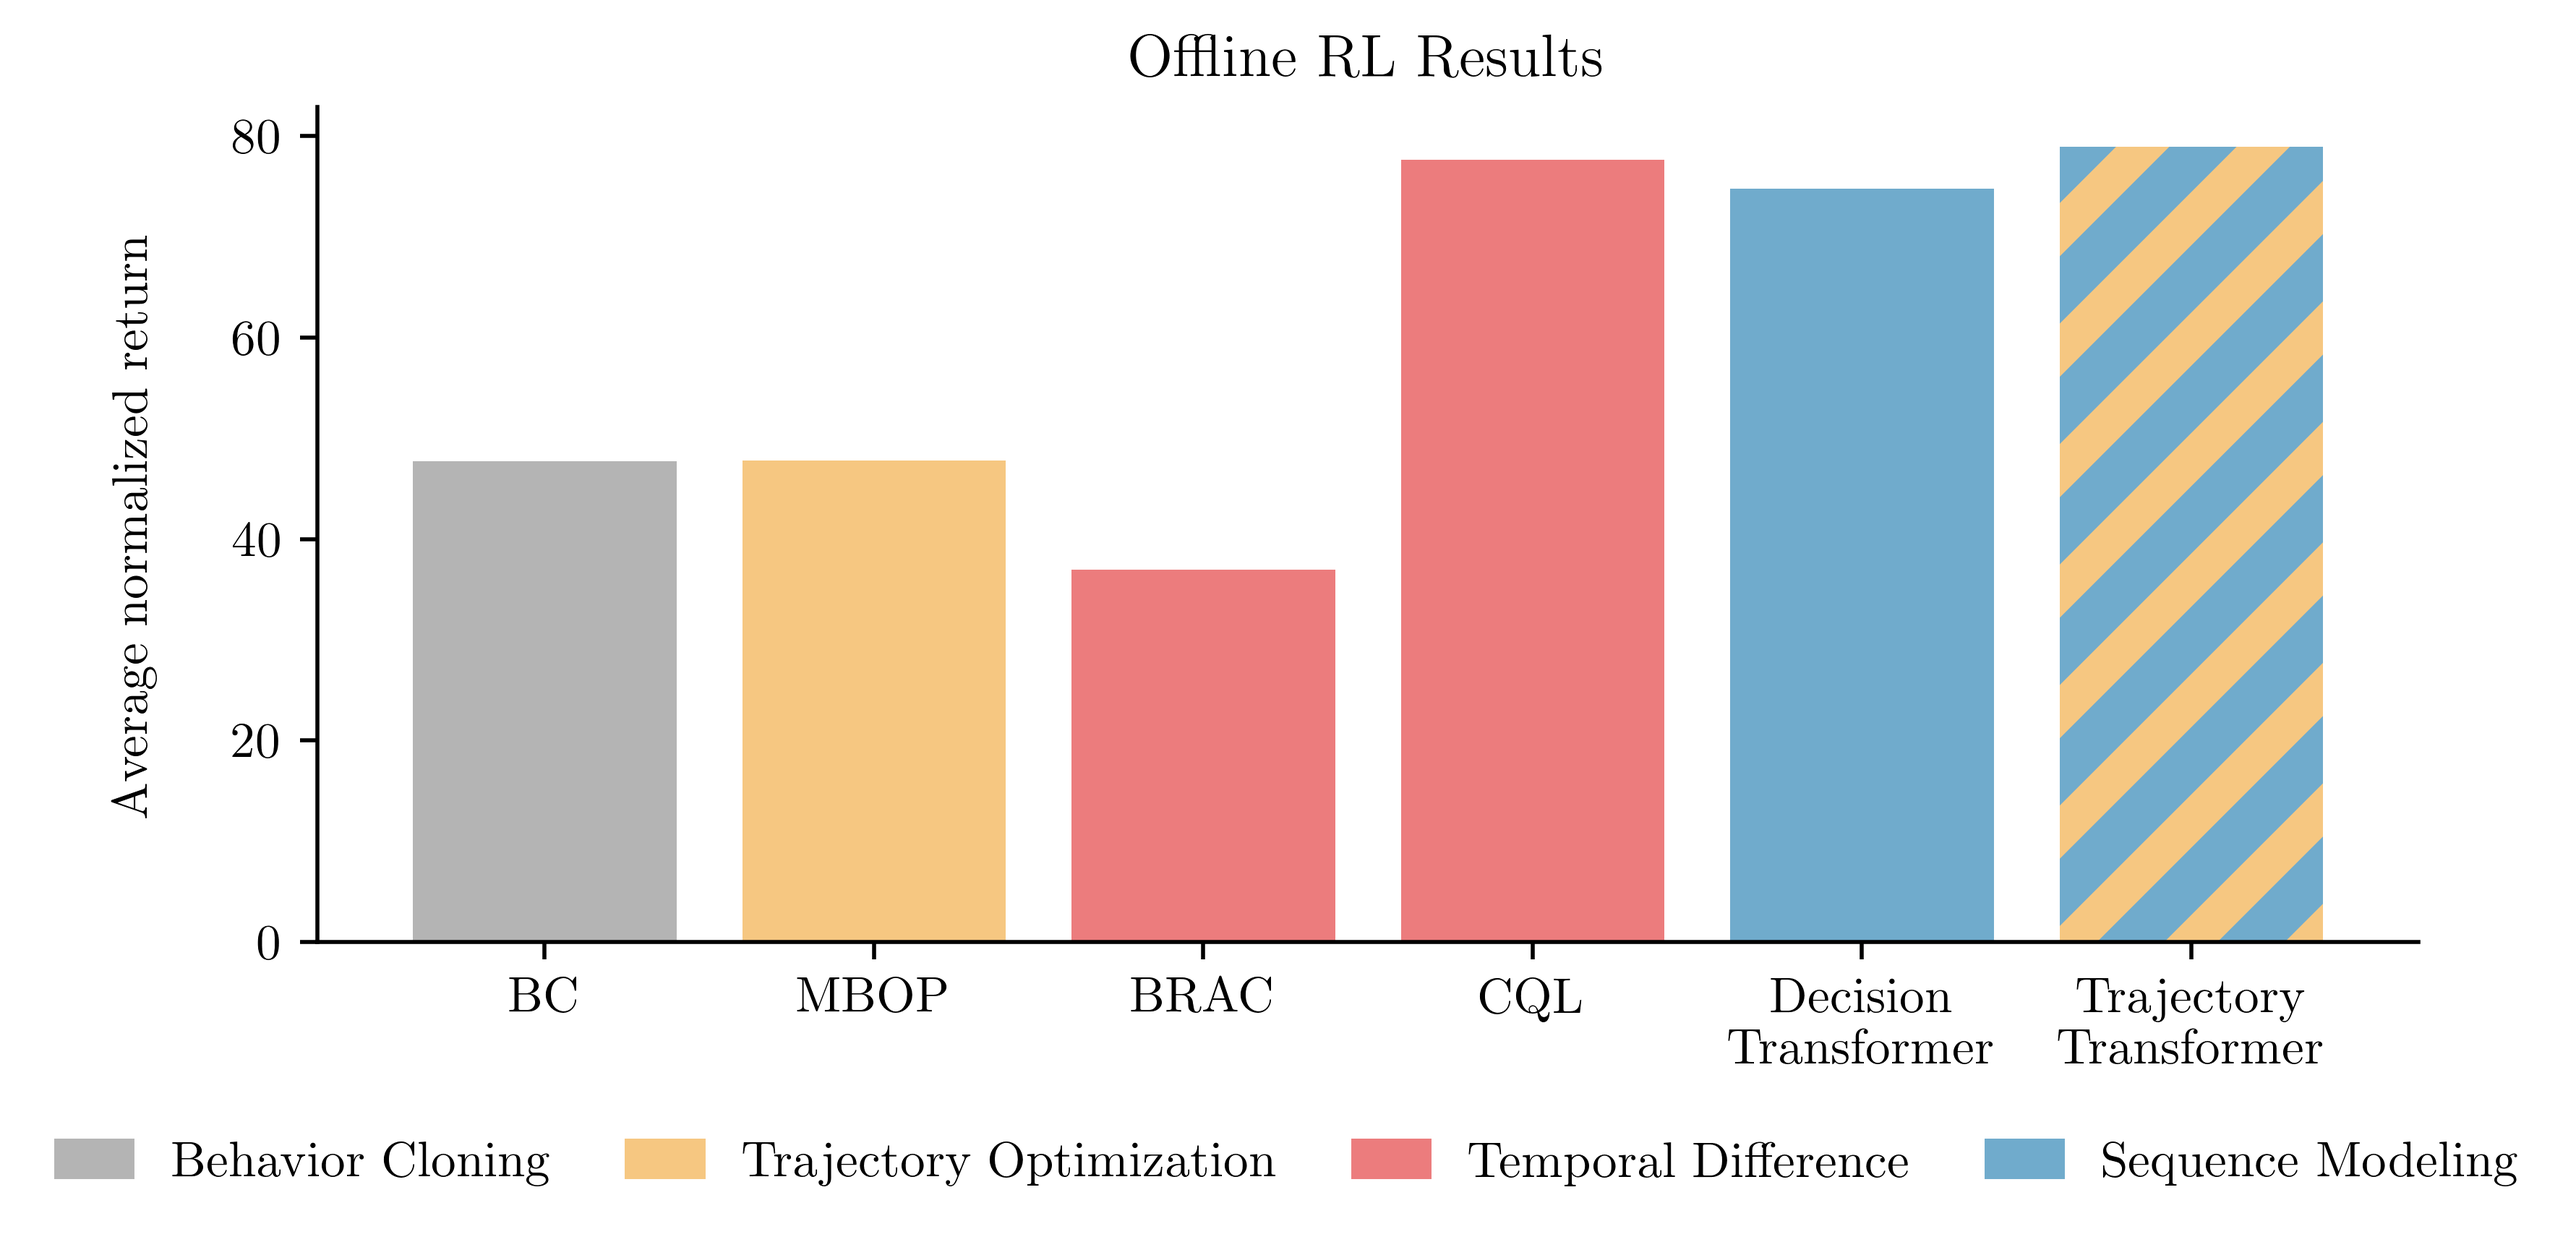
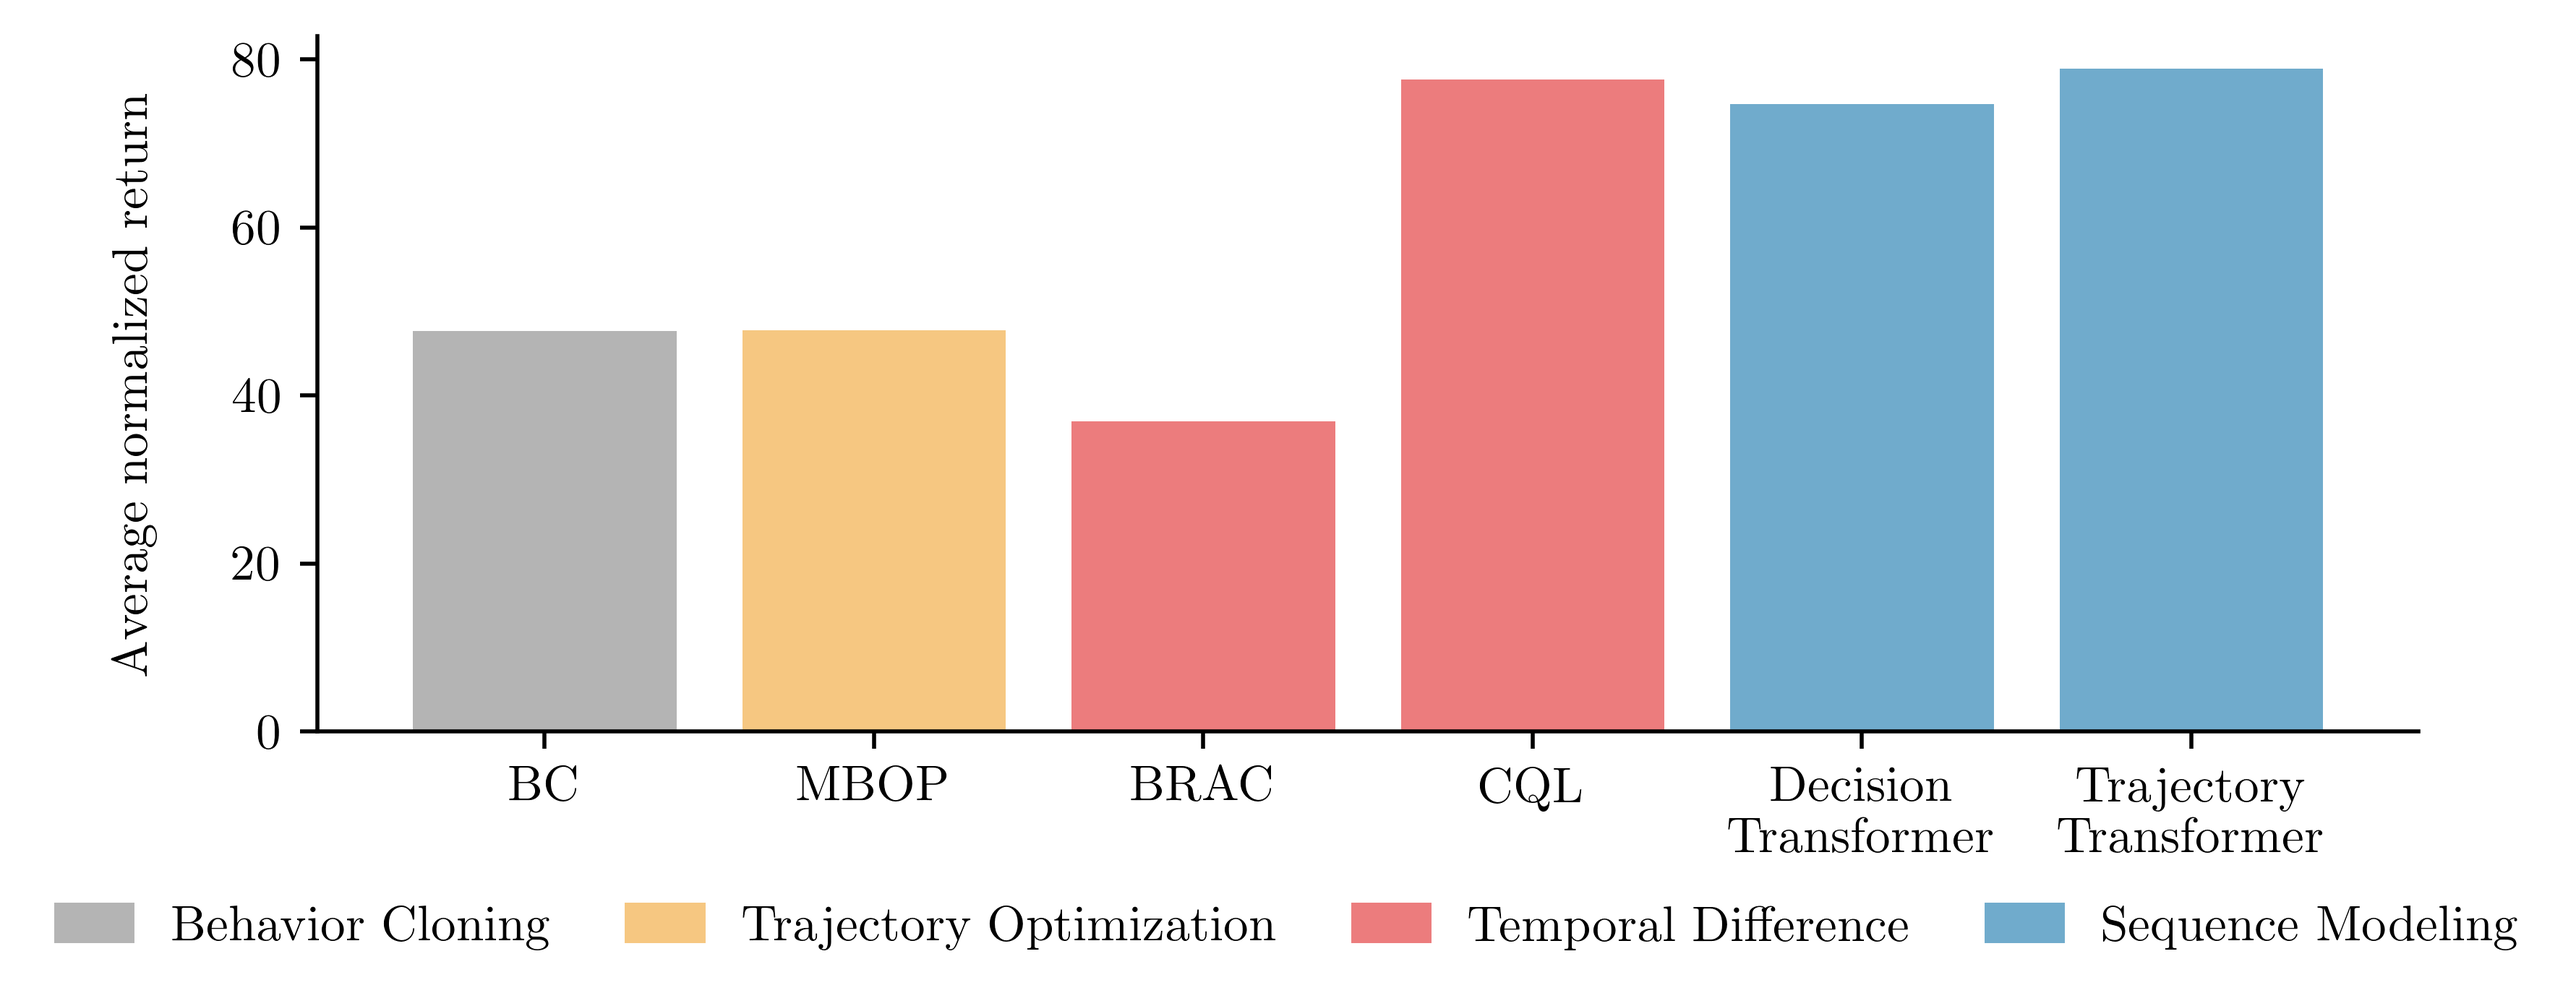
bar plot

diff --git a/plotting/plot.py b/plotting/plot.py
@@ -40,7 +40,7 @@ if __name__ == '__main__':
 
 	fig = plt.gcf()
 	ax = plt.gca()
-	fig.set_size_inches(7.5, 3)
+	fig.set_size_inches(7.5, 2.5)
 
 	means = {k: get_mean(v, exclude='ant') for k, v in means.items()}
 	print(means)
@@ -56,7 +56,7 @@ if __name__ == '__main__':
 	labels = [LABELS.get(alg, alg) for alg in algs]
 	plt.bar(labels, vals, color=colors, edgecolor=Colors.gold, lw=0)
 	plt.ylabel('Average normalized return', labelpad=15)
-	plt.title('Offline RL Results')
+	# plt.title('Offline RL Results')
 
 	legend_labels = ['Behavior Cloning', 'Trajectory Optimization', 'Temporal Difference', 'Sequence Modeling']
 	colors = [Colors.grey, Colors.gold, Colors.red, Colors.blue]
@@ -65,7 +65,7 @@ if __name__ == '__main__':
 		bbox_to_anchor=(1.07, -.18), fancybox=False, framealpha=0, shadow=False, columnspacing=1.5, handlelength=1.5)
 
 	matplotlib.rcParams['hatch.linewidth'] = 7.5
-	ax.patches[-1].set_hatch('/')
+	# ax.patches[-1].set_hatch('/')
 
 	ax.spines['right'].set_visible(False)
 	ax.spines['top'].set_visible(False)
